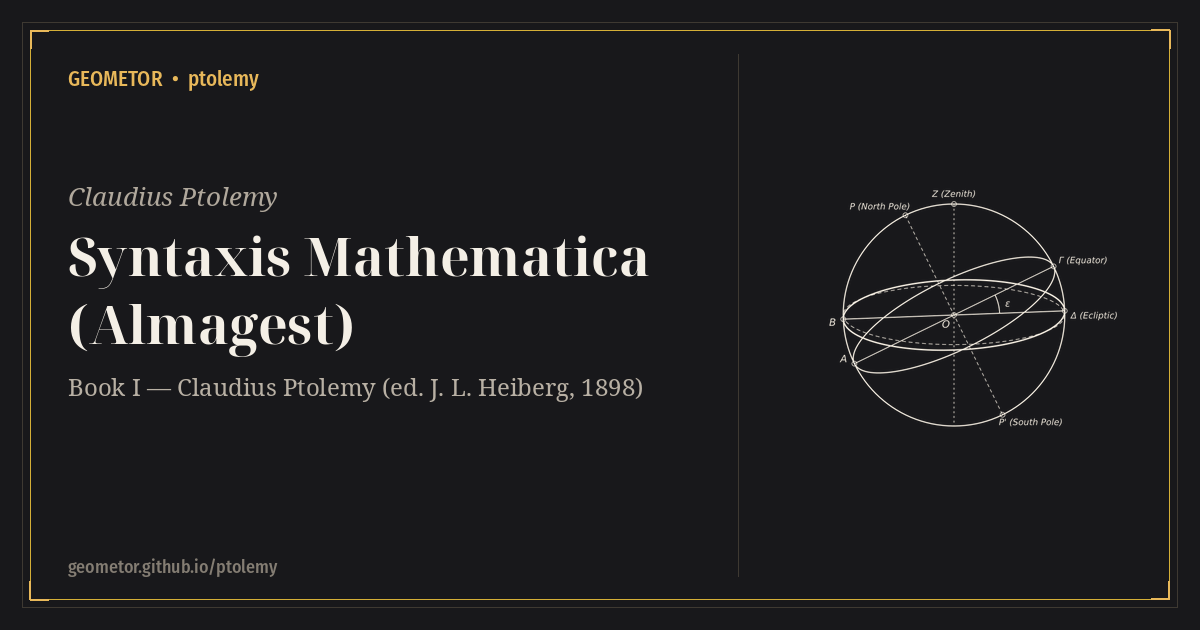
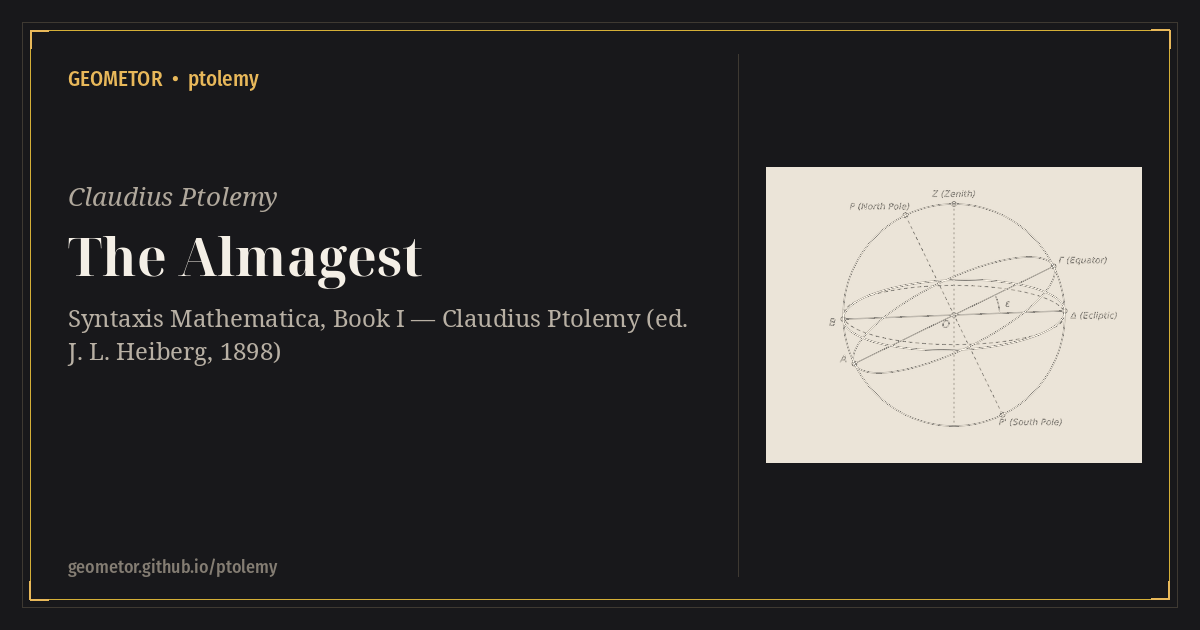
docs: add construction hero images, elevate English titles with native title tracks, and standardize track menus

diff --git a/docsrc/almagest_geometry/index.rst b/docsrc/almagest_geometry/index.rst
@@ -1,29 +1,31 @@
 :navigation: header
 :order: 1
 :type: book
-:nav_title: Syntaxis Mathematica
-:breadcrumb_title: Syntaxis Mathematica
+:nav_title: The Almagest
+:breadcrumb_title: The Almagest
 :layout: book
-:book_title: Syntaxis Mathematica (Almagest)
-:book_subtitle: Book I — Claudius Ptolemy (ed. J. L. Heiberg, 1898)
+:book_title: The Almagest
+:book_subtitle: Syntaxis Mathematica, Book I — Claudius Ptolemy (ed. J. L. Heiberg, 1898)
 :author: Claudius Ptolemy
 :year: c. 150 CE
 :folio: heiberg_1898_syntaxis_vol1_pt1:0014
+:tracks: English: index | Greek: title-el
 :excerpt: Ptolemy's foundational treatise on spherical cosmology, sexagesimal chord trigonometry, regular decagon and pentagon construction, Ptolemy's Theorem on cyclic quadrilaterals, chord difference and half-arc lemmas, and spherical Menelaus trigonometry.
 
 .. _almagest-geometry-codex:
 
-Syntaxis Mathematica (Almagest)
-===============================
+============
+The Almagest
+============
 
-.. rubric:: Κλαυδίου Πτολεμαίου Μαθηματικὴ Σύνταξις αʹ
+.. rubric:: *Μαθηματικὴ Σύνταξις* (*Syntaxis Mathematica*) αʹ — Claudius Ptolemy
 
 .. container:: title-page
 
    | **Claudius Ptolemy**
-   | *Syntaxis Mathematica (Book I, Chs. 1–14)*
+   | *The Almagest (Book I, Chs. 1–14)*
    |
-   | Greek Edition (*Almagest*): J. L. Heiberg (Leipzig: B. G. Teubner, 1898)
+   | Greek Edition (*Syntaxis Mathematica*): J. L. Heiberg (Leipzig: B. G. Teubner, 1898)
    | English Translation, Mathematical Proofs & Demonstrations: GEOMETOR Scriptorium
    |
    | GEOMETOR Digital Edition · Synchronized Multi-Track Book Codex
@@ -31,13 +33,13 @@ Syntaxis Mathematica (Almagest)
 Table of Contents
 -----------------
 
-Composed at Alexandria around 150 CE by :person:`Claudius Ptolemy <ptolemy>` and dedicated to :person:`Syrus <syrus>`, the opening fourteen chapters of the :term:`Syntaxis Mathematica <syntaxis-mathematike>` (*Almagest*) constitute the supreme surviving synthesis of classical Greek computational geometry, chord trigonometry, and spherical geometry. Each chapter of this **Multi-Track Book Codex** provides synchronized reading tracks (**English**, **Greek (1898)**, **Summary**, and **Notes**) wired to interactive diagrams.
+Composed at Alexandria around 150 CE by :person:`Claudius Ptolemy <ptolemy>` and dedicated to :person:`Syrus <syrus>`, the opening fourteen chapters of the :term:`Almagest <syntaxis-mathematike>` (*Μαθηματικὴ Σύνταξις*) constitute the supreme surviving synthesis of classical Greek computational geometry, chord trigonometry, and spherical geometry. Each chapter of this **Multi-Track Book Codex** provides synchronized reading tracks (**English**, **Greek**, **Summary**, and **Notes**) wired to interactive diagrams.
 
 .. collection::
    :type: chapter
    :sort: order
 
-For Ptolemy's companion treatise on stereographic projection, see :doc:`Planisphaerium <../planisphaerium/index>`.
+For Ptolemy's companion treatise on stereographic projection, see :doc:`Planisphere <../planisphaerium/index>`.
 
 Scholarly Apparatus
 -------------------
@@ -82,3 +84,10 @@ Scholarly Apparatus
    bibliography
    persons
    glossary
+
+.. toctree::
+   :maxdepth: 1
+   :hidden:
+   :caption: Title Pages
+
+   title-el

diff --git a/docsrc/planisphaerium/index.rst b/docsrc/planisphaerium/index.rst
@@ -1,27 +1,29 @@
 :navigation: header
 :order: 2
 :type: book
-:nav_title: Planisphaerium
-:breadcrumb_title: Planisphaerium
+:nav_title: Planisphere
+:breadcrumb_title: Planisphere
 :layout: book
-:book_title: Planisphaerium
+:book_title: Planisphere
 :book_subtitle: Stereographic Projection & Astrolabe Geometry — Claudius Ptolemy (ed. Heiberg)
 :author: Claudius Ptolemy
 :year: c. 150 CE
 :folio: heiberg_1907_opera_minora_vol2:0437
+:tracks: English: index | Latin: title-la
 :excerpt: Ptolemy's foundational treatise on stereographic projection of the celestial sphere onto the equatorial plane, conformal circle preservation, and the mathematical geometry of the planispheric astrolabe.
 
 .. _planisphaerium-codex:
 
-Planisphaerium
-==============
+===========
+Planisphere
+===========
 
-.. rubric:: De Sphaera in Plano Proiecta — Hermann of Carinthia (1143) / J. L. Heiberg (1907)
+.. rubric:: *Planisphaerium* (*De Sphaera in Plano Proiecta*) — Hermann of Carinthia (1143) / J. L. Heiberg (1907)
 
 .. container:: title-page
 
    | **Claudius Ptolemy**
-   | *Planisphaerium (Sections 1–4)*
+   | *Planisphere (Sections 1–4)*
    |
    | Latin Edition: Hermann of Carinthia (1143), ed. J. L. Heiberg (Leipzig: B. G. Teubner, 1907)
    | English Translation, Mathematical Proofs & Demonstrations: GEOMETOR Scriptorium
@@ -31,13 +33,13 @@ Planisphaerium
 Table of Contents
 -----------------
 
-Composed at Alexandria by :person:`Claudius Ptolemy <ptolemy>` and translated into Latin in 1143 by :person:`Hermann of Carinthia <hermann>`, the *Planisphaerium* is the foundational ancient text establishing the mathematical geometry of **stereographic projection** and the planispheric astrolabe. Each section of this **Multi-Track Book Codex** provides synchronized reading tracks (**English**, **Latin (1907)**, **Summary**, and **Notes**) wired to interactive diagrams.
+Composed at Alexandria by :person:`Claudius Ptolemy <ptolemy>` and translated into Latin in 1143 by :person:`Hermann of Carinthia <hermann>`, the *Planisphere* (*Planisphaerium*) is the foundational ancient text establishing the mathematical geometry of **stereographic projection** and the planispheric astrolabe. Each section of this **Multi-Track Book Codex** provides synchronized reading tracks (**English**, **Latin**, **Summary**, and **Notes**) wired to interactive diagrams.
 
 .. collection::
    :type: section
    :sort: order
 
-For Ptolemy's primary mathematical treatise on spherical cosmology and chord trigonometry, see :doc:`Syntaxis Mathematica (Almagest) <../almagest_geometry/index>`.
+For Ptolemy's primary mathematical treatise on spherical cosmology and chord trigonometry, see :doc:`The Almagest <../almagest_geometry/index>`.
 
 .. toctree::
    :maxdepth: 1
@@ -60,3 +62,10 @@ For Ptolemy's primary mathematical treatise on spherical cosmology and chord tri
    prop_04/prop_04-la
    prop_04/prop_04-summary
    prop_04/prop_04-notes
+
+.. toctree::
+   :maxdepth: 1
+   :hidden:
+   :caption: Title Pages
+
+   title-la

diff --git a/README.rst b/README.rst
@@ -3,7 +3,12 @@ GEOMETOR • ptolemy
 
 **Visit the Online Archive:** https://geometor.github.io/ptolemy/
 
-**Claudius Ptolemy • Syntaxis Mathematica (Almagest), Planisphaerium • semantic digital archive**
+.. image:: docsrc/_static/figures/fig01_celestial_sphere_preliminaries.svg
+   :alt: GEOMETOR • ptolemy featured geometric construction
+   :target: https://geometor.github.io/ptolemy/
+   :align: center
+
+**Claudius Ptolemy • The Almagest, Planisphere • semantic digital archive**
 
 Mission
 -------
@@ -13,8 +18,8 @@ Mission
 Books in This Archive
 ---------------------
 
-- **`Syntaxis Mathematica (Almagest) <https://geometor.github.io/ptolemy/almagest_geometry/>`_** — Book I of Ptolemy's Syntaxis Mathematica (c. 150 CE / ed. J. L. Heiberg, 1898), covering the sexagesimal chord table, golden pentagon-decagon construction, and Ptolemy's Theorem on cyclic quadrilaterals.
-- **`Planisphaerium <https://geometor.github.io/ptolemy/planisphaerium/>`_** — Astrolabe geometry and stereographic projection from the South Celestial Pole onto the equator (c. 150 CE / ed. Heiberg), preserving circles and establishing conformal coordinate systems.
+- **`The Almagest <https://geometor.github.io/ptolemy/almagest_geometry/>`_** — Book I of Ptolemy's *Syntaxis Mathematica* (c. 150 CE / ed. J. L. Heiberg, 1898), covering the sexagesimal chord table, golden pentagon-decagon construction, and Ptolemy's Theorem on cyclic quadrilaterals.
+- **`Planisphere <https://geometor.github.io/ptolemy/planisphaerium/>`_** — Astrolabe geometry and stereographic projection from the South Celestial Pole onto the equator (c. 150 CE / ed. Heiberg), preserving circles and establishing conformal coordinate systems.
 
 Repository Contents
 -------------------

diff --git a/docsrc/almagest_geometry/title-el.rst b/docsrc/almagest_geometry/title-el.rst
@@ -1,0 +1,45 @@
+:type: book_title
+:layout: book
+:title: Κλαυδίου Πτολεμαίου Μαθηματικὴ Σύνταξις αʹ
+:book_title: Κλαυδίου Πτολεμαίου Μαθηματικὴ Σύνταξις αʹ
+:book_subtitle: Τὸ Πρῶτον Βιβλίον τῆς Μαθηματικῆς Συντάξεως (ed. J. L. Heiberg, 1898)
+:author: Κλαύδιος Πτολεμαῖος
+:toc_label: Πίναξ
+:persons_label: Πρόσωπα
+:bibliography_label: Βιβλιογραφία
+:glossary_label: Γλωσσάριον
+:tracks: English: index | Greek: title-el
+
+.. _almagest-geometry-title-el:
+
+=============================================
+Κλαυδίου Πτολεμαίου Μαθηματικὴ Σύνταξις αʹ
+=============================================
+
+.. rubric:: *Κλαυδίου Πτολεμαίου Μαθηματικῆς Συντάξεως Βιβλίον Αʹ* — Ἔκδοσις J. L. Heiberg (Λειψία: B. G. Teubner, 1898)
+
+.. container:: title-page
+
+   | **Συγγραφεύς:** :person:`Κλαύδιος Πτολεμαῖος <ptolemy>` (περὶ τὸ 150 μ.Χ.)
+   | **Κριτικὴ ἔκδοσις:** :person:`J. L. Heiberg <heiberg>` (B. G. Teubner, 1898)
+
+----
+
+Πίναξ τῶν Περιεχομένων
+----------------------
+
+* :doc:`ch_09/ch_09-el`
+* :doc:`ch_10/ch_10-el`
+* :doc:`ch_11/ch_11-el`
+* :doc:`ch_12/ch_12-el`
+* :doc:`ch_13/ch_13-el`
+
+----
+
+Κριτικὸς Μηχανισμός
+-------------------
+
+* :doc:`concordance`
+* :doc:`bibliography`
+* :doc:`persons`
+* :doc:`glossary`

diff --git a/docsrc/planisphaerium/title-la.rst b/docsrc/planisphaerium/title-la.rst
@@ -1,0 +1,35 @@
+:type: book_title
+:layout: book
+:title: Claudii Ptolemaei Planisphaerium
+:book_title: Claudii Ptolemaei Planisphaerium
+:book_subtitle: De Sphaera in Plano Proiecta — Hermannus de Carinthia (1143) / J. L. Heiberg (1907)
+:author: Claudius Ptolemaeus
+:toc_label: Conspectus
+:persons_label: Index Nominum
+:bibliography_label: Bibliographia
+:glossary_label: Glossarium
+:tracks: English: index | Latin: title-la
+
+.. _planisphaerium-title-la:
+
+================================
+Claudii Ptolemaei Planisphaerium
+================================
+
+.. rubric:: *Planisphaerium* — Translatio :person:`Hermanni de Carinthia <hermann>` (1143), ed. :person:`J. L. Heiberg <heiberg>` (Lipsiae: B. G. Teubner, 1907)
+
+.. container:: title-page
+
+   | **Auctor:** :person:`Claudius Ptolemaeus <ptolemy>`
+   | **Interpres:** :person:`Hermannus de Carinthia <hermann>` (1143)
+   | **Editio Critica:** :person:`J. L. Heiberg <heiberg>` (*Opera Astronomica Minora*, Vol. II, Teubner, 1907)
+
+----
+
+Conspectus Totius Operis
+------------------------
+
+* :doc:`prop_01/prop_01-la`
+* :doc:`prop_02/prop_02-la`
+* :doc:`prop_03/prop_03-la`
+* :doc:`prop_04/prop_04-la`
